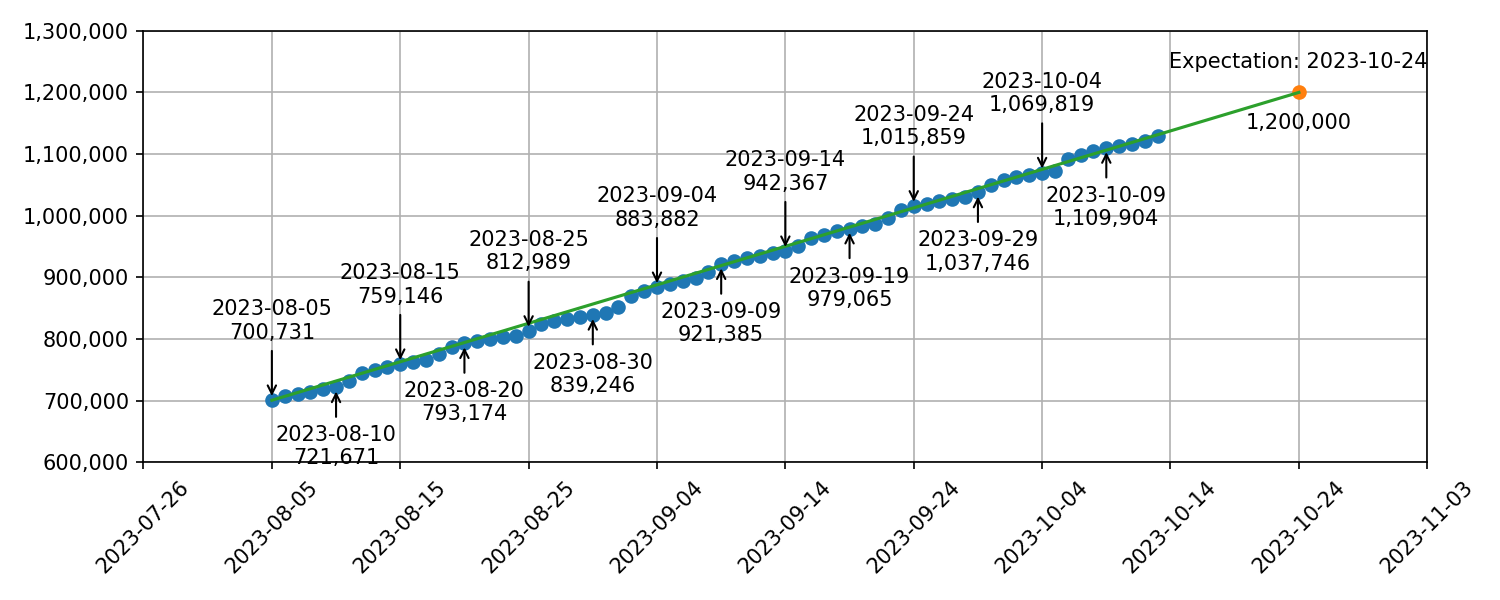
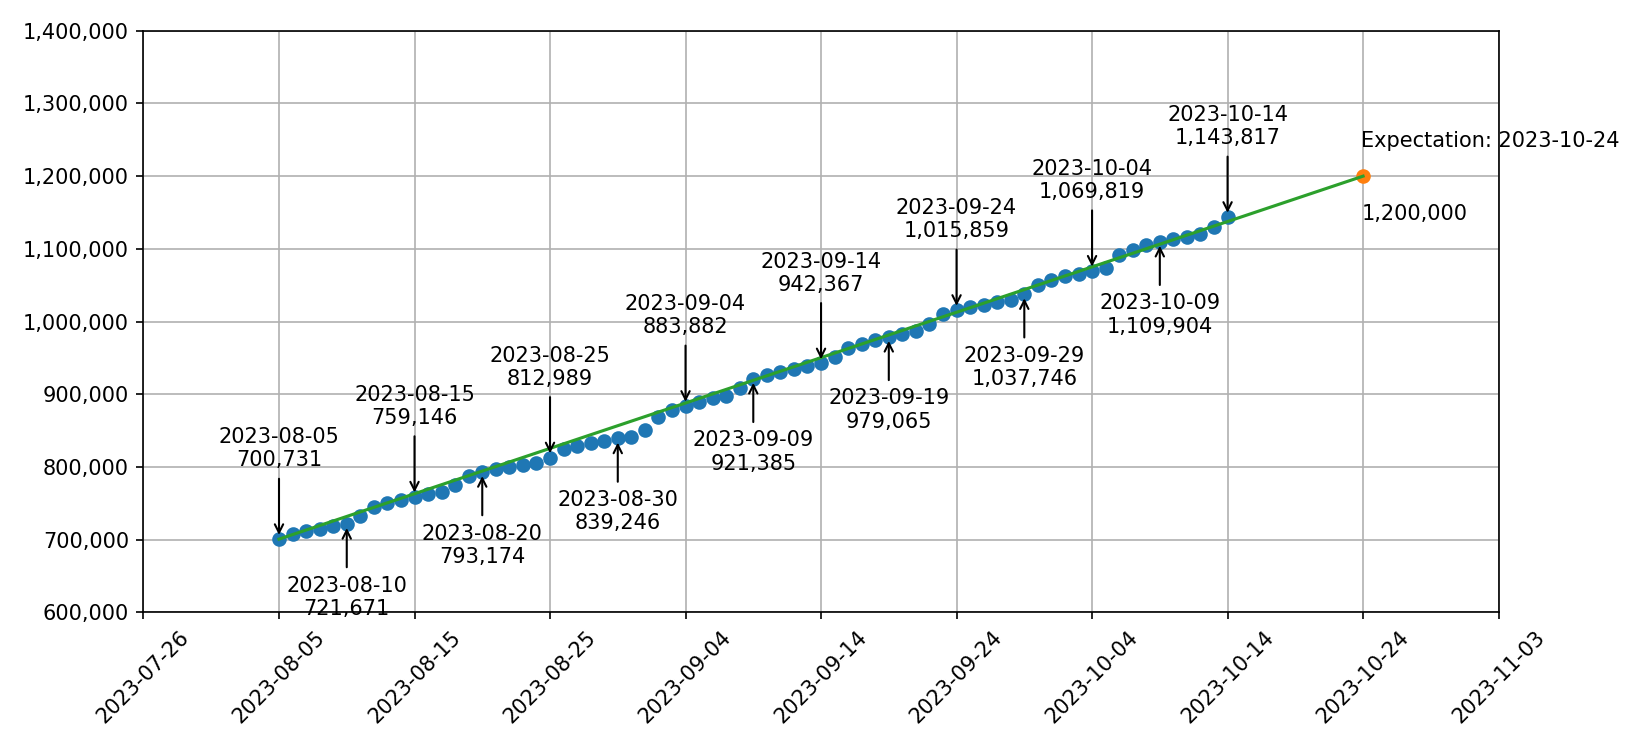
Update prediction

Changed region(s): [[0.0, 0.03, 0.9813, 0.96], [0.1227, 0.87, 0.184, 0.96]]

diff --git a/src/lib/prediction.py b/src/lib/prediction.py
@@ -22,7 +22,8 @@ print(line_fitter.predict([[goal]]))
 predictor = goal
 prediction = line_fitter.predict([[goal]])
 
-plt.figure(figsize=(10, 4))
+plt.figure(figsize=(11, 5))
+plt.ylim(600000, 1400000)  # y축 범위
 plt.plot(X, y, "o")  # 기록 데이터
 plt.plot(math.ceil(prediction[0]), predictor, "o")  # 예측 데이터
 # 예측량 주석
@@ -33,14 +34,14 @@ plt.annotate(
     ),
     xy=(prediction[0], predictor),
     xytext=(prediction[0], predictor + 40000),
-    ha="center",
+    ha="left",
 )
 # 기록 주석
 plt.annotate(
     format(goal, ","),
     xy=(prediction[0], predictor),
     xytext=(prediction[0], predictor - 60000),
-    ha="center",
+    ha="left",
 )
 
 placing = 100000
